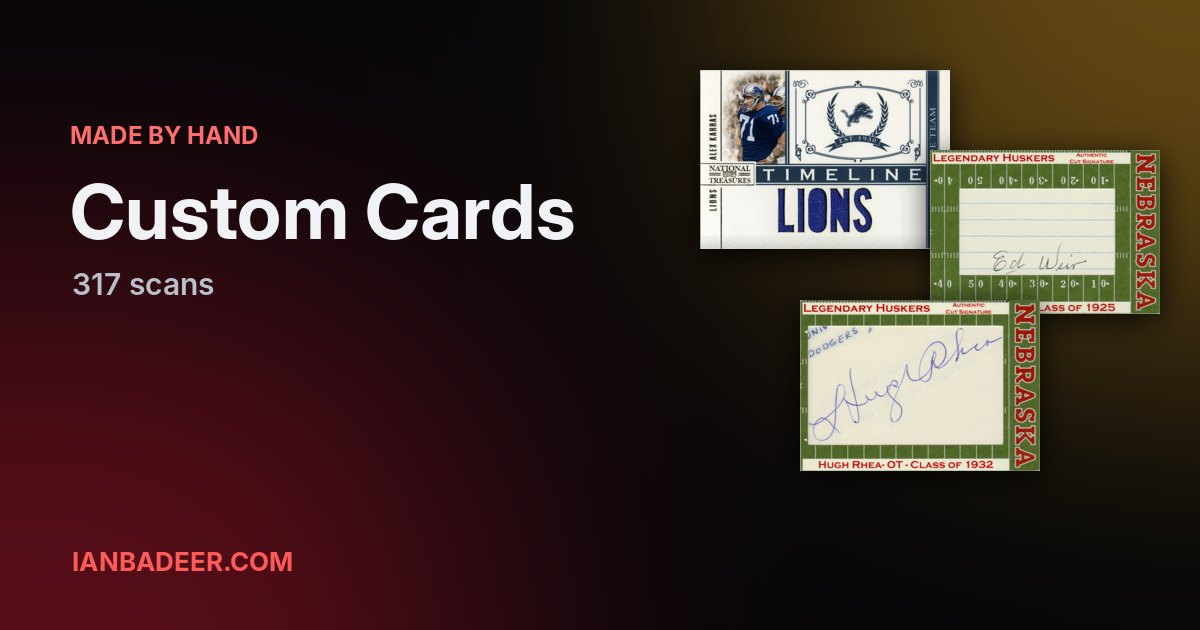
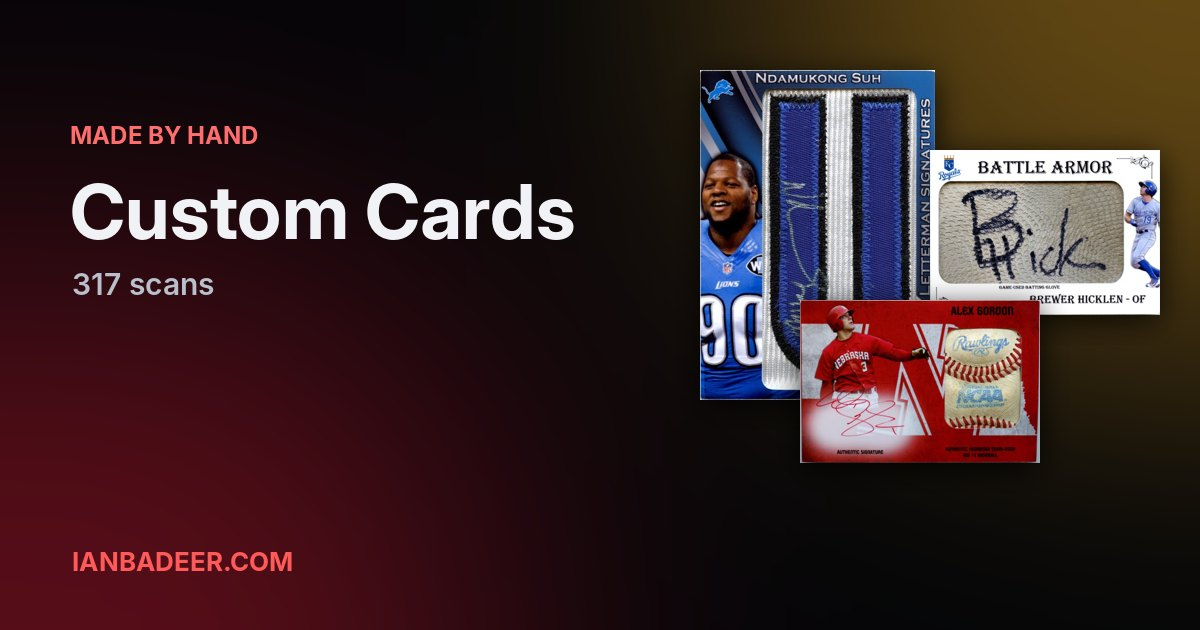
Collection preview pictures: rare patch cards first (Ian's pick)
Claude-Session: https://claude.ai/code/session_01C5NGh3az48HioKxpT7yHAo

Changed region(s): [[0.5858, 0.0905, 0.9867, 0.754]]

diff --git a/scripts/make_preview_images.py b/scripts/make_preview_images.py
@@ -21,7 +21,11 @@ def picks(slug, cards):
     cards = [x for x in cards if not re.search(r"\(back\)|\bback\s*$|\bsold\b", x[2], re.I)]
     chosen = [x for p in PICKS.get(slug, []) for x in cards if x[2].startswith(p)][:1]
     auto = lambda x: bool(re.search(r"\bAU\b|autograph|signature|signed", x[2], re.I))
-    ranked = sorted(cards, key=lambda x: (rarity(x[2]), not auto(x), x[2]))
+    # Ian's choice: rare patch cards first (prime patches, laundry tags, logos, nameplates, letters), rarest first.
+    PATCH = re.compile(r"patch|prime|laundry|\btag\b|logo ?man|logo|nameplate|shield|button|letter|jumbo|tag relic", re.I)
+    patch = lambda x: bool(PATCH.search(x[2])) and not re.search(r"\bMANU\b|manufactured|printing plate|plate\b", x[2], re.I)
+    ok = [x for x in cards if not re.search(r"printing plate|\bplate\b|custom", x[2], re.I) or slug == "customs"]
+    ranked = sorted(ok, key=lambda x: (not patch(x), rarity(x[2]), not auto(x), x[2]))
     seen = set()
     for x in chosen + ranked:
         who = re.sub(r"^.*#\S+\s+", "", x[2]).split(" AU")[0][:20]
